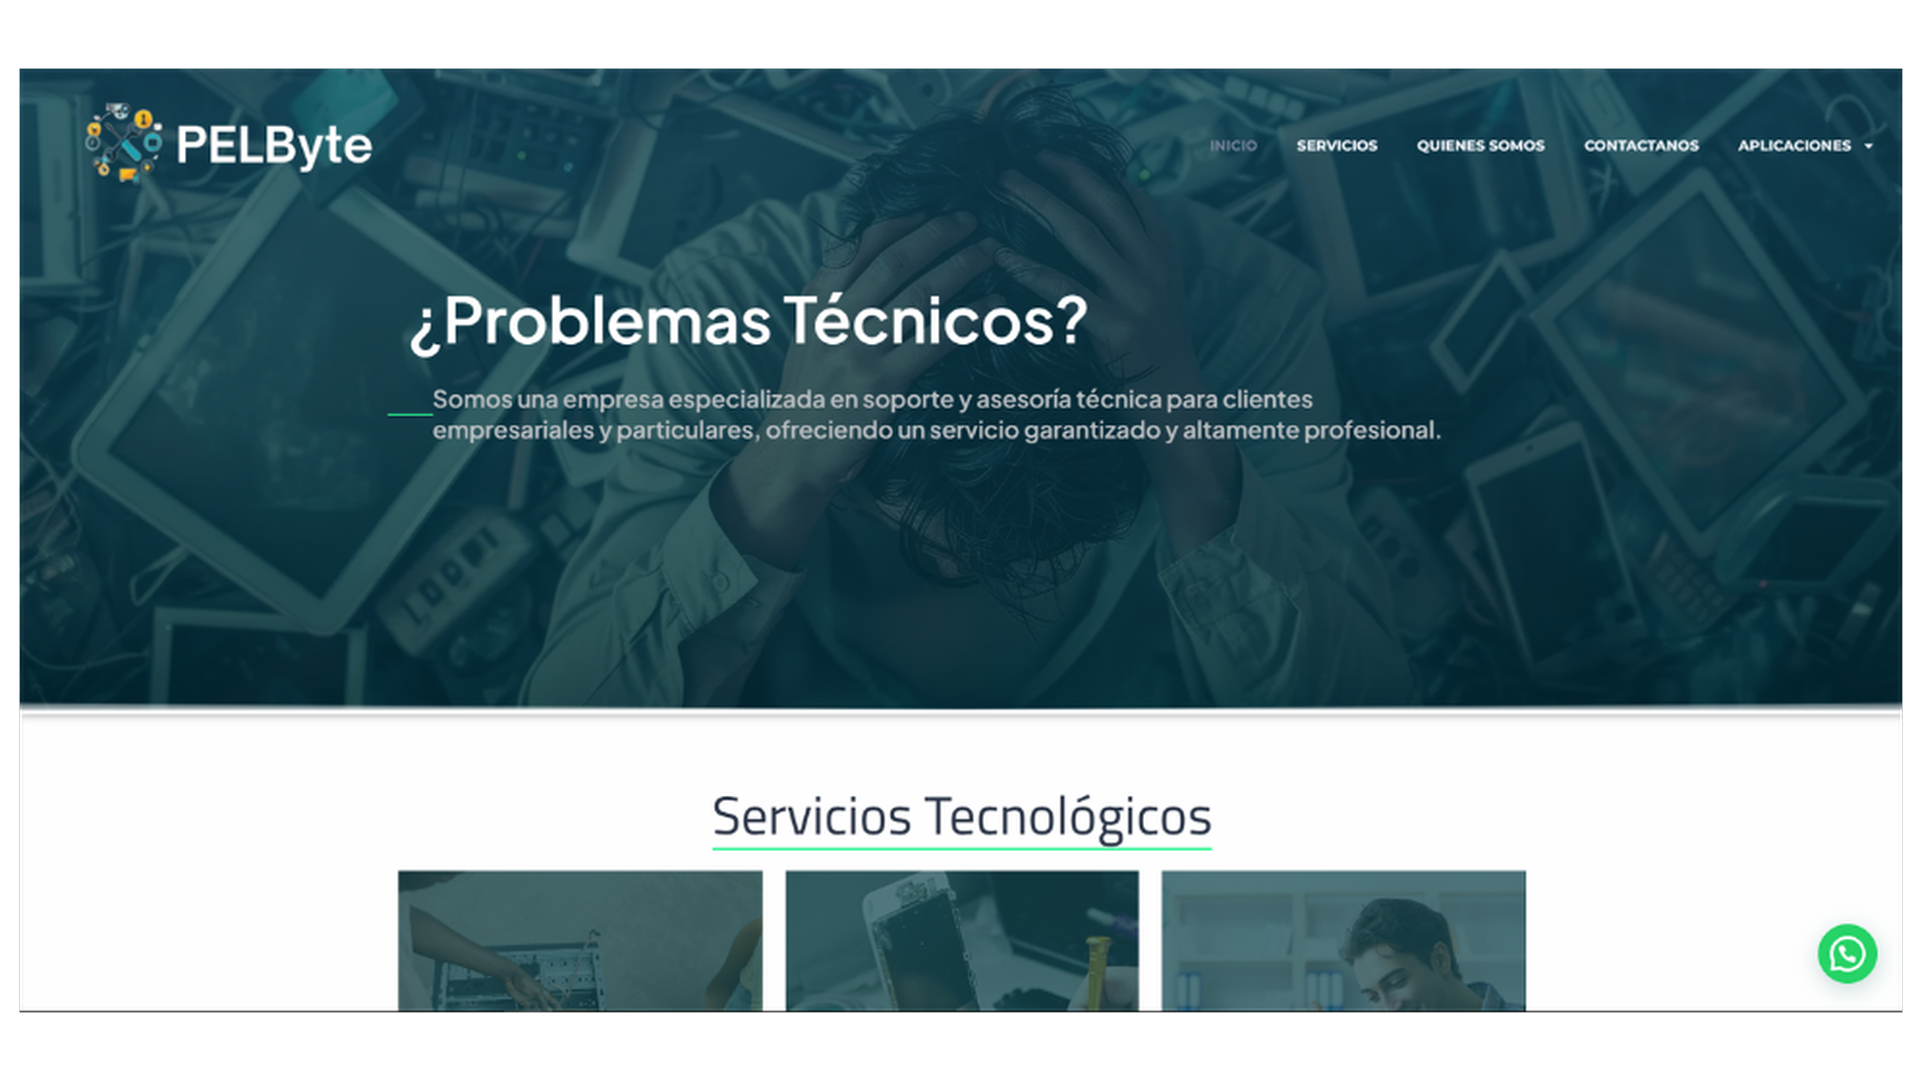
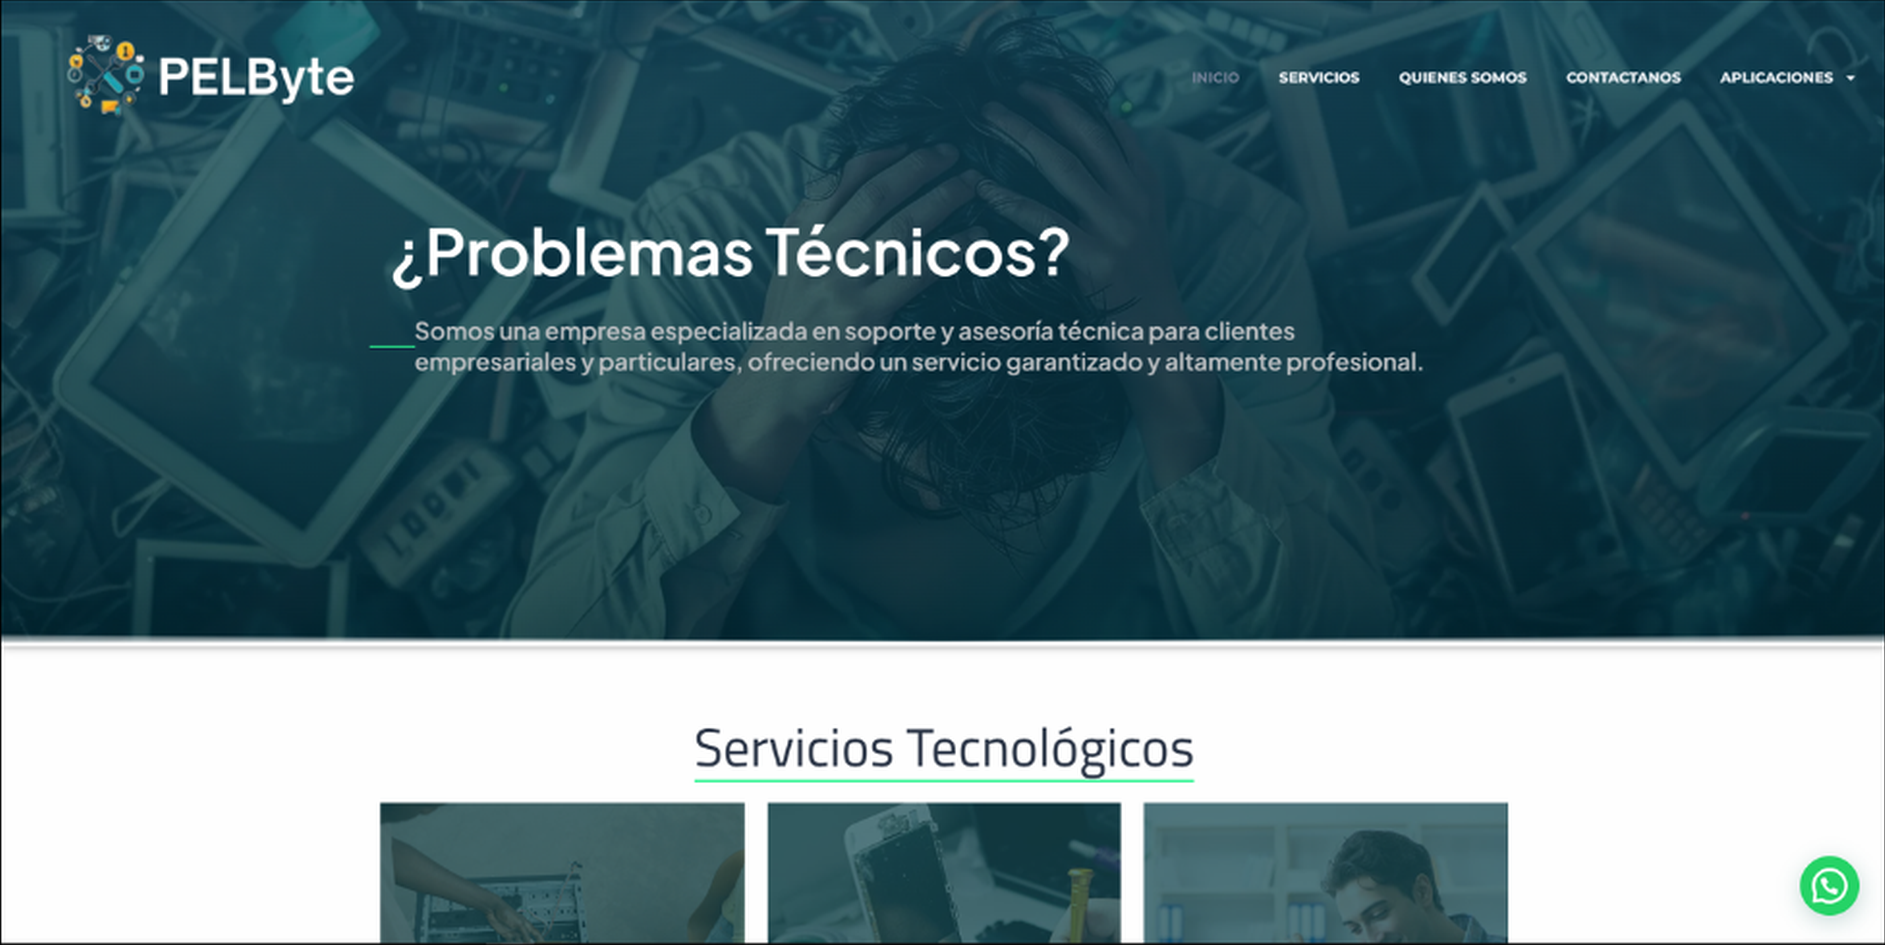
reparacion imagenes

diff --git a/components/section/Projects.tsx b/components/section/Projects.tsx
@@ -13,32 +13,32 @@ const projects = [
   },
   {
     title: "Marcfashion",
-    media: "/images/screenshots/cropped/Marcfashion_1920_cropped.png",
+    media: "/images/screenshots/Marcfashion_1920.png",
     description:
       "Plataforma de comercio electrónico internacional.",
   },
   {
     title: "Gala Export",
-    media: "/images/screenshots/cropped/Gala_Export_1920_cropped.png",
+    media: "/images/screenshots/Gala_Export_1920.png",
     description:
       "Aplicación web con blog y landing page, orientada a mercados internacionales.",
   },
   {
     title: "PSI",
-    media: "/images/screenshots/cropped/PSI_Censurado_1920_cropped.png",
+    media: "/images/screenshots/PSI_Censurado_1920.png",
     description:
       "Dashboard administrativo con integración avanzada de servicios en la nube y gestión documental.",
   },
   {
     title: "App Móvil",
     media:
-      "/images/screenshots/cropped/App_Movil_Censurado_blanco_1920_cropped.png",
+      "/images/screenshots/App_Movil_Censurado_blanco_1920.png",
     description:
       "Aplicación móvil con autenticación, gestión de roles y conexión a servicios en la nube.",
   },
   {
     title: "PELByte",
-    media: "/images/screenshots/cropped/PELByte_1920_cropped.png",
+    media: "/images/screenshots/PELByte_1920.png",
     description:
       "Landing page corporativa para servicios tecnológicos, enfocada en la presentación profesional.",
   },
